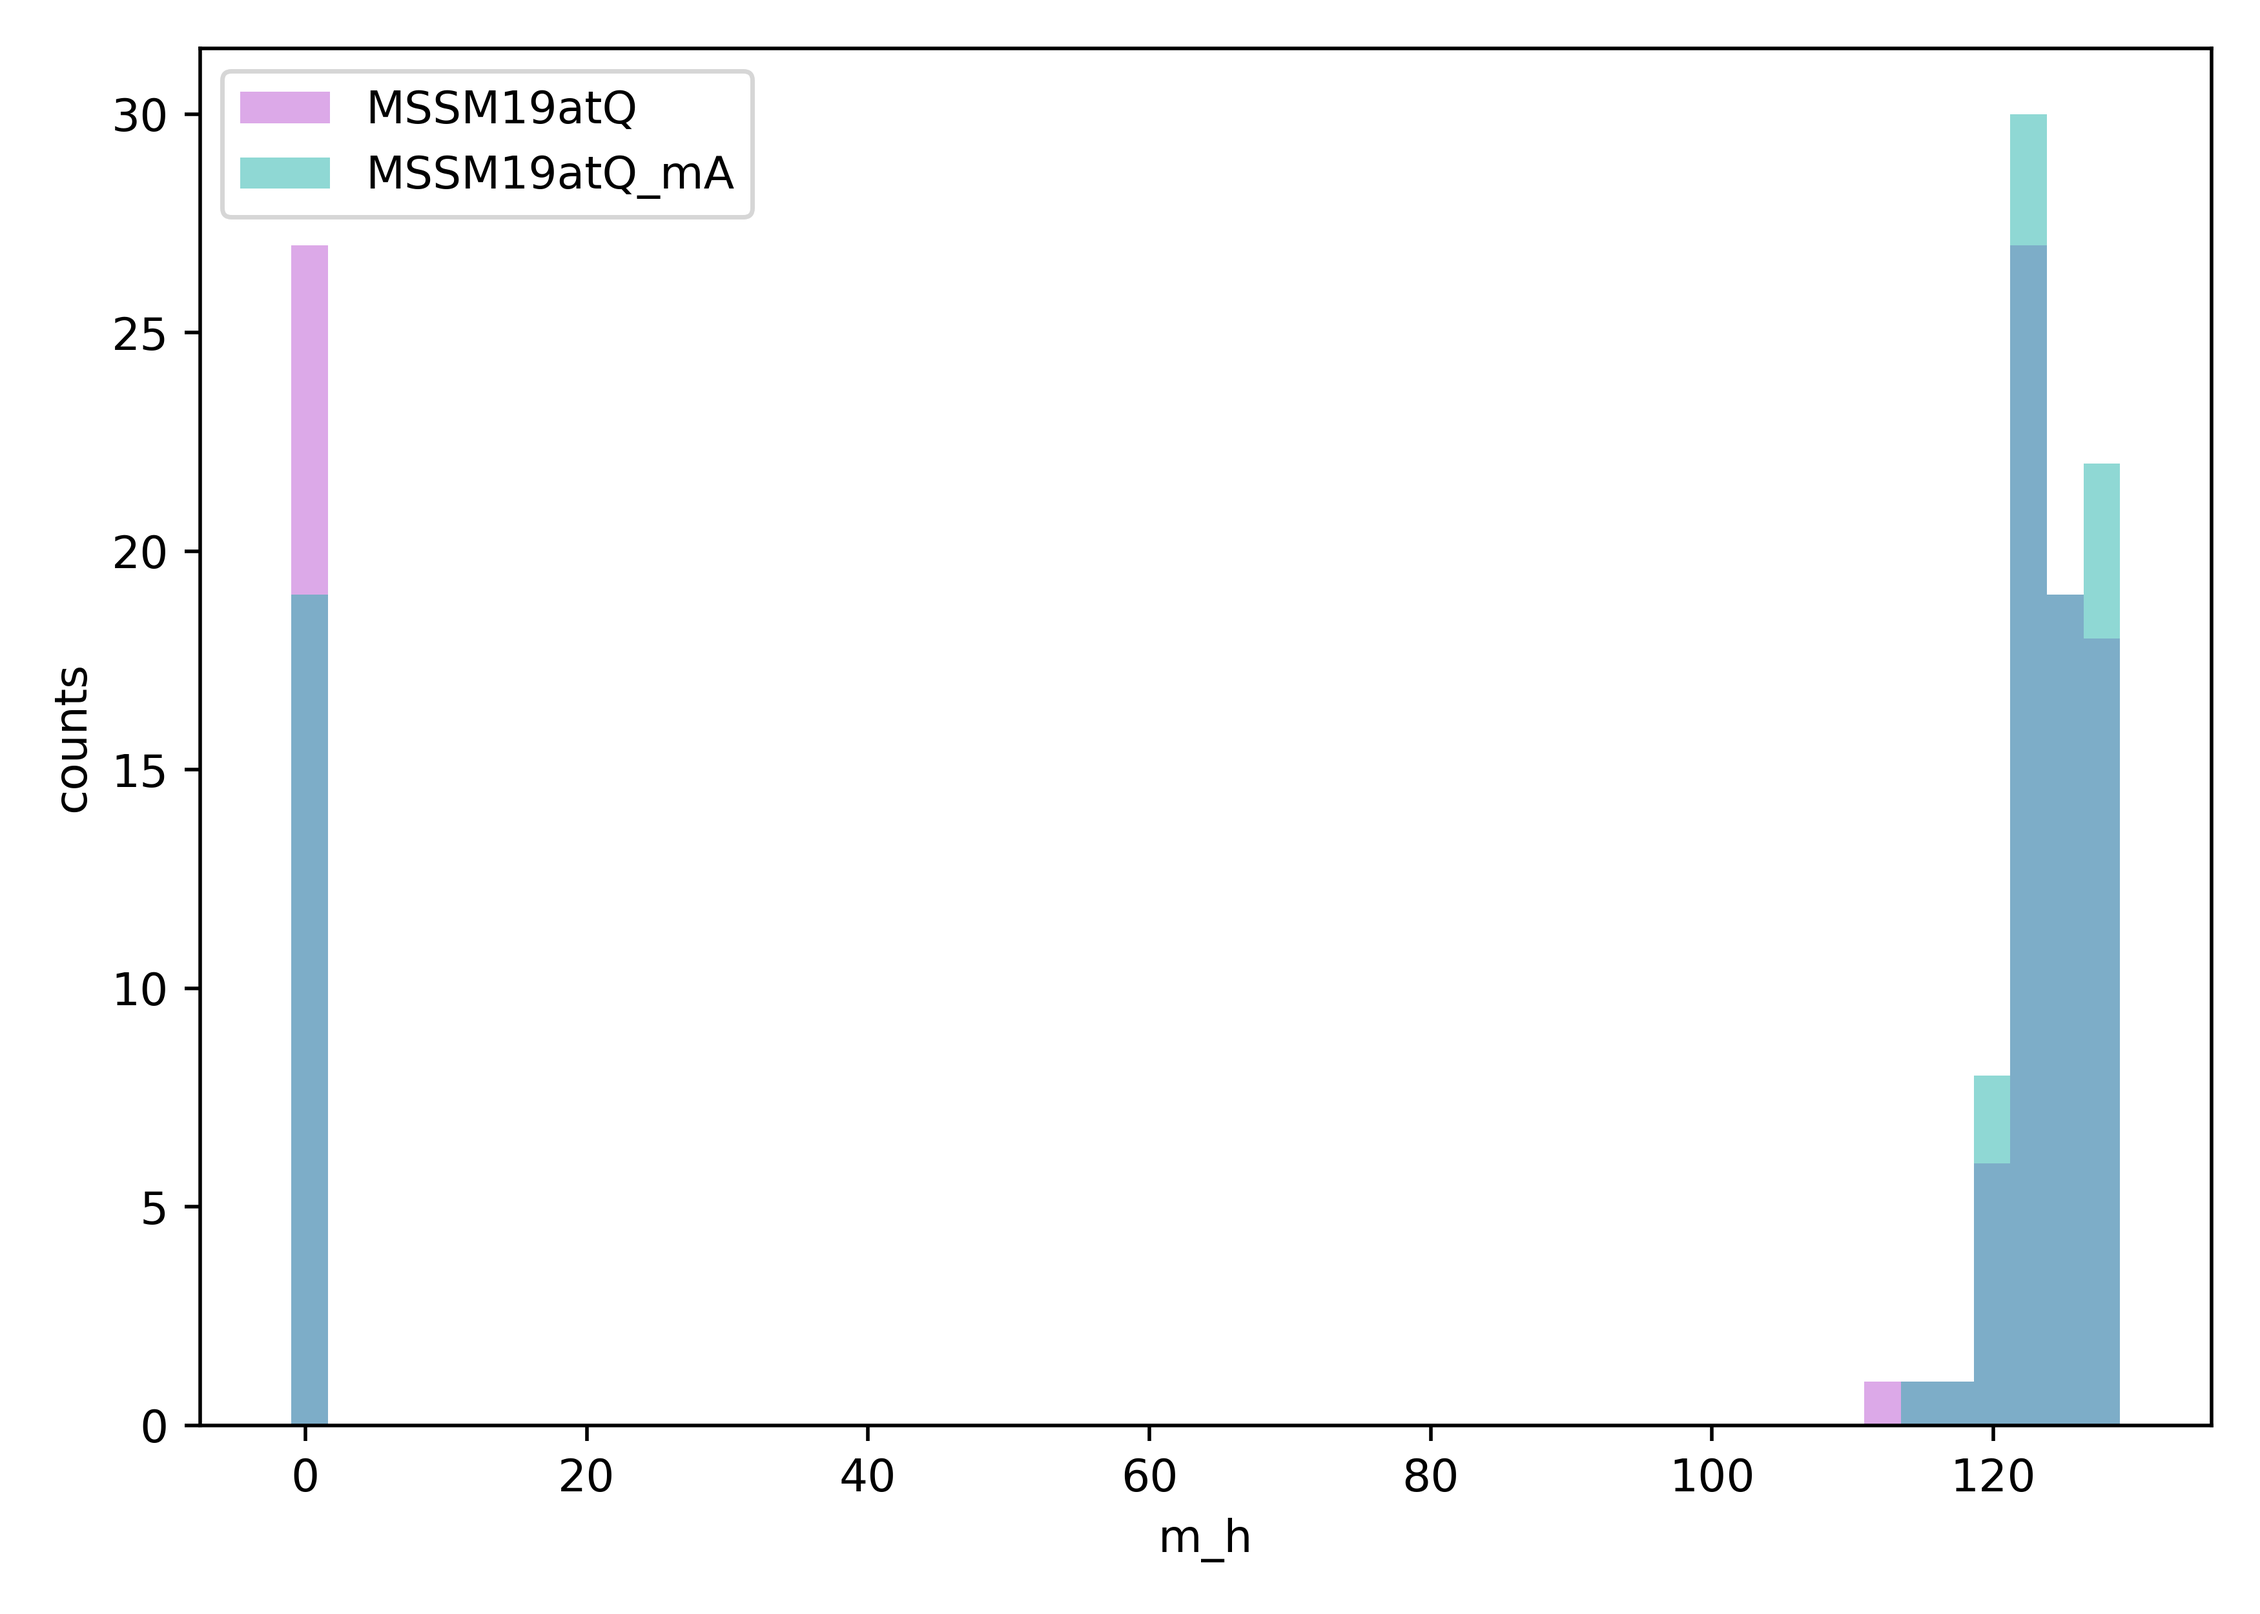
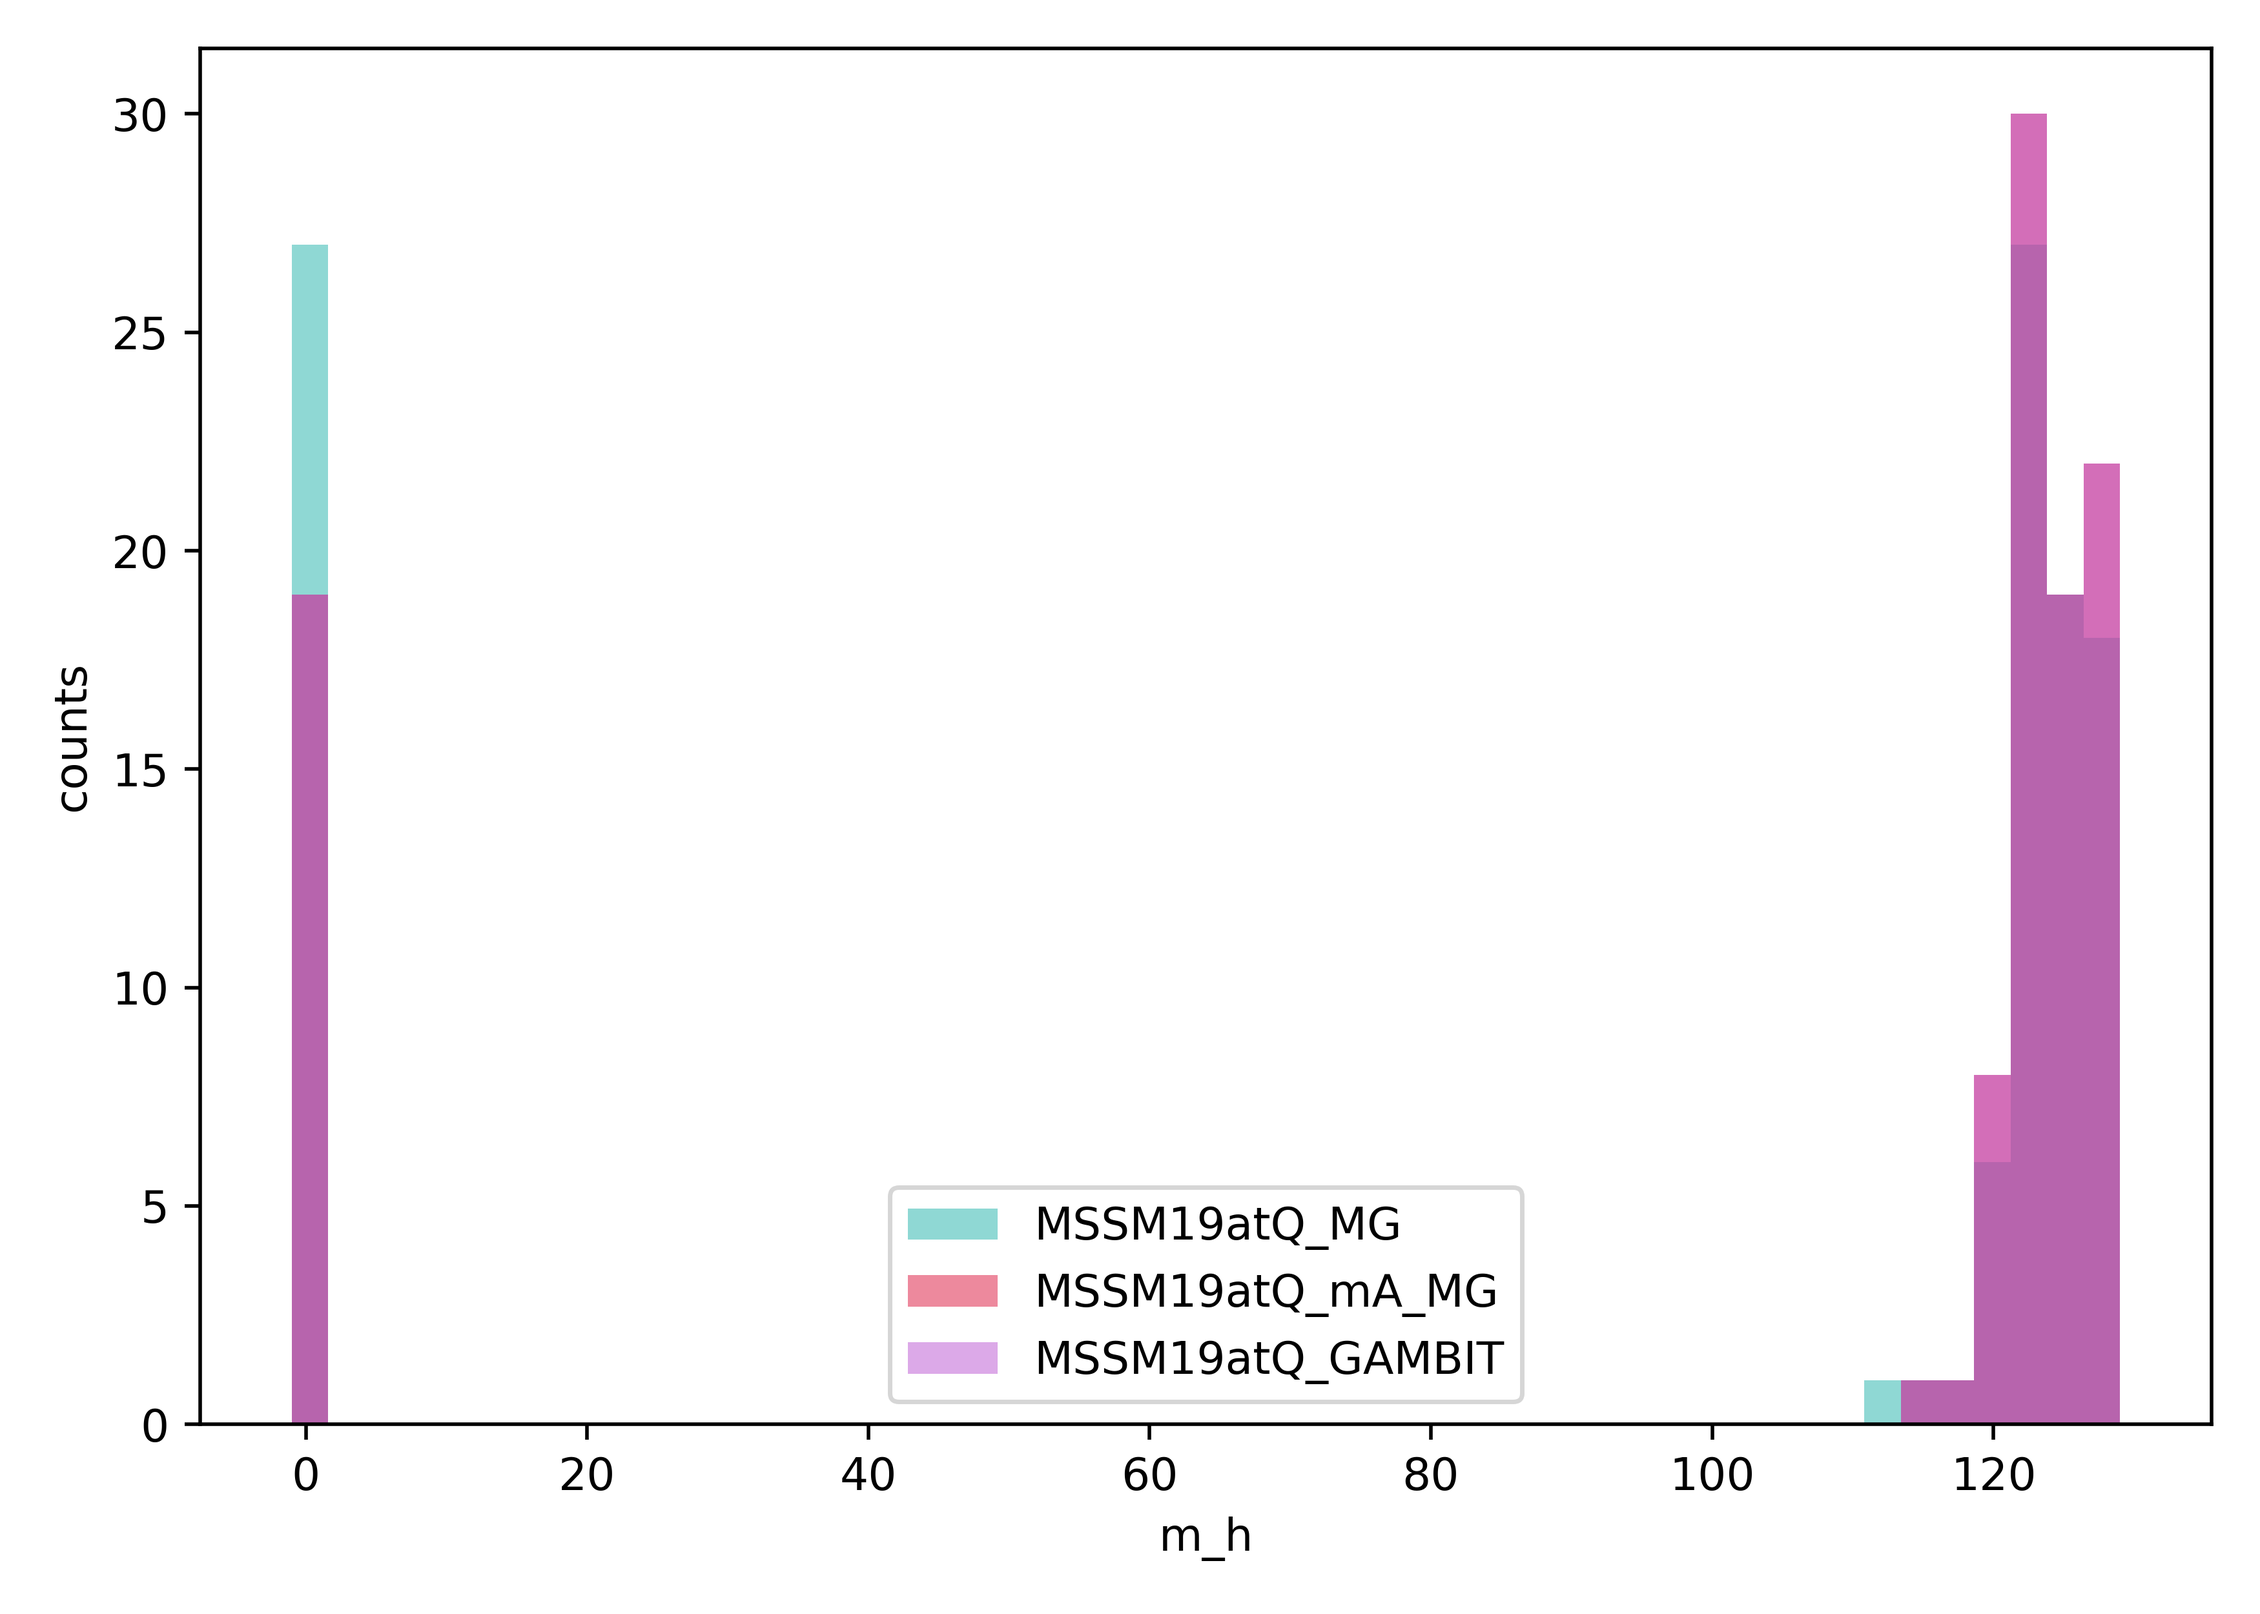
first comparison GAMBIT <-> ModelGen

diff --git a/Run3ModelGen/read_output.py b/Run3ModelGen/read_output.py
@@ -1,69 +1,82 @@
+"""
+read scan data and create plots
+"""
+
 import os
+import h5py
 import uproot
 import numpy as np
 import pandas as pd
 import matplotlib.pyplot as plt
 
 
-prefix: list[str] = ["SS", "SP", "MO", "SI", "GM2"]
-
-
-
-def fetch_parameter(scan_dir: str, parameter_name: str, prefix: str, scan_file: str = "ntuple.0.0.root:susy") -> pd.DataFrame:
-    '''create a pandas dataframe from a scan output file'''
+def fetch_parameter_r3mg(
+    scan_dir: str, parameter_name: str, prefix: str, scan_file: str = "ntuple.0.0.root:susy"
+) -> pd.DataFrame:
+    """create a pandas dataframe from a root output file"""
     scan_data = uproot.open(scan_dir + scan_file)
-    parameter_df: pd.DataFrame = scan_data.arrays(filter_name=f'{prefix}*{parameter_name}*', library='pd')
+    parameter_df: pd.DataFrame = scan_data.arrays(filter_name=f"{prefix}*{parameter_name}*", library="pd")
     return parameter_df
 
 
-# plot the parameter
-# if not os.path.isdir(path_to_plots): os.makedirs(path_to_plots)
-# fig = plt.figure(figsize=(7,5))
-# ax = fig.add_subplot(111)
+def fetch_parameter_gambit(scan_path: str, parameter_name: str, prefix: str = None) -> pd.DataFrame:
+    """create a pandas dataframe from a hdf5 output file"""
+    hdf5 = h5py.File(scan_path, "r")
+    scan = hdf5["MSSM"]
+    search_key = parameter_name if prefix is None else f"{prefix}.*{parameter_name}"
+    parameter_key = ""
+    for key in scan.keys():
+        if key.match(search_key):
+            parameter_key = key
+            break
+    parameter_df = pd.DataFrame(data=scan[parameter_key])
+    print(parameter_df)
+    return parameter_df
 
-# bins = np.histogram_bin_edges(parameter_df[parameter_df.keys()[0]], bins=50)
 
-# for id, par in enumerate(parameter_df.keys()):
-#     ax.hist(parameter_df[par], bins=bins, color=plt_colors[id], alpha=0.5,
-#             label=par.split('_')[0])
-    
-# ax.set_xlabel(parameter)
-# ax.set_ylabel("counts")
-# ax.legend()
-# fig.tight_layout()
-# fig.savefig(path_to_plots + parameter, dpi=500)
 def plot_parameter(parameter_name: str, data: pd.DataFrame, output_path: str = "plots/") -> None:
-    '''create a histogramm from a pandas dataframe'''
-    plt_colors: list[str] = ['mediumorchid', 'lightseagreen', 'crimson'] 
+    """create a histogramm from a pandas dataframe"""
+    plt_colors: list[str] = ["lightseagreen", "crimson", "mediumorchid"]
 
-    fig = plt.figure(figsize=(7,5))
+    fig = plt.figure(figsize=(7, 5))
     ax = fig.add_subplot(111)
 
     bins = np.histogram_bin_edges(data[data.keys()[0]], bins=50)
 
-    for id, par in enumerate(data.keys()):
-        ax.hist(data[par], bins=bins, color=plt_colors[id], alpha=0.5, label=par.split('#')[0])
+    for i, par in enumerate(data.keys()):
+        ax.hist(data[par], bins=bins, color=plt_colors[i], alpha=0.5, label=par.split("#")[0])
 
     ax.set_xlabel(parameter_name)
-    ax.set_ylabel('counts')
+    ax.set_ylabel("counts")
     ax.legend()
     fig.tight_layout()
 
-    if not os.path.isdir(output_path): os.makedirs(output_path)
+    if not os.path.isdir(output_path):
+        os.makedirs(output_path)
     fig.savefig(output_path + parameter_name, dpi=500)
 
 
 def main():
+    """entry point"""
     mssm19atq_scan = "runs/MSSM19atQ/"
     mssm19atq_ma_scan = "runs/MSSM19atQ_mA/"
-    scan_list: list[str] = [mssm19atq_scan, mssm19atq_ma_scan]
+    mssm19atq_gambit_scan = "../GAMBIT/runs/MSSM19atQ_random_bare/samples/MSSM19atQ.hdf5"
+    scan_list: list[str] = [mssm19atq_scan, mssm19atq_ma_scan, mssm19atq_gambit_scan]
+    labels: list[str] = ["MSSM19atQ_MG", "MSSM19atQ_mA_MG", "MSSM19atQ_GAMBIT"]
     prefix = "SP"
     parameter_name = "m_h"
 
     df_list: list[pd.DataFrame] = []
-    for scan in scan_list:
-        df = fetch_parameter(scan, parameter_name, prefix)
-        column_names = [scan.split('/')[-2] + '#' + df.columns[i] for i in range(len(df.columns))]
+    for i, scan in enumerate(scan_list):
+        try:
+            df = fetch_parameter_r3mg(scan, parameter_name, prefix)
+        except:
+            pass
+        try:
+            df = fetch_parameter_gambit(scan, parameter_name)
+        except:
+            pass
+        column_names = [labels[i]]
         df = df.set_axis(column_names, axis=1)
         df_list.append(df)
 
@@ -75,7 +88,5 @@ def main():
     plot_parameter(parameter_name, parameter_df)
 
 
-
-
-if __name__ =="__main__":
+if __name__ == "__main__":
     main()
